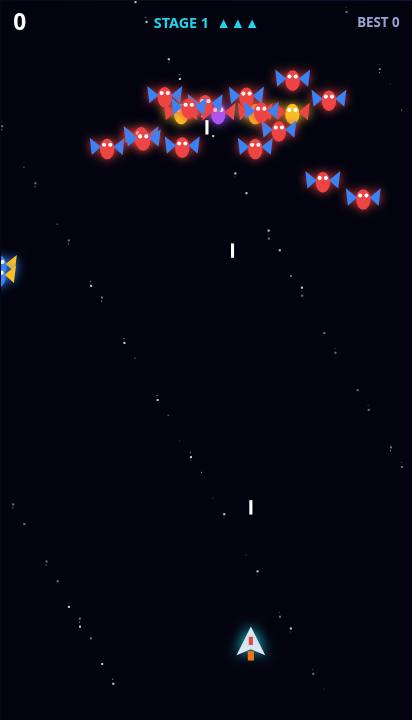
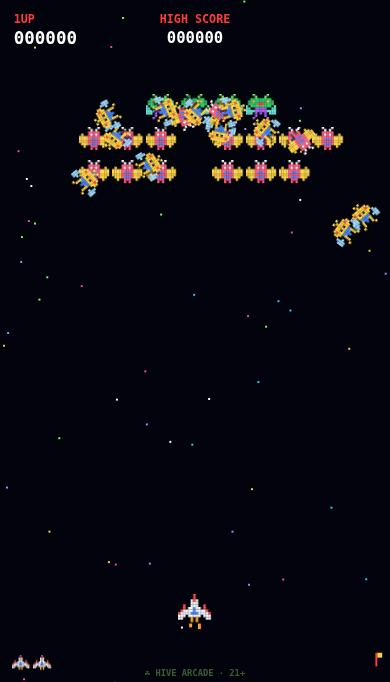
games-lib: Star Swarm art upgrade (original pixel sprites, arcade HUD, pixel explosions); e2e + bug pass PASS

diff --git a/public/games-lib/star-swarm/game.js b/public/games-lib/star-swarm/game.js
@@ -1,4 +1,18 @@
-// Star Swarm - original formation shooter with diving bugs (Hub build)
+// Star Swarm - original formation shooter with diving bugs (Hub build, Galaga-style). Original pixel-art sprites (our own maps,
+// 2-frame wing flaps), arcade multicolour scrolling starfield, pixel explosions, stage badges.
+const PX = { // 13x11 maps: . empty, letters = palette
+  hornet: ['.....a.a.....', '......a......', '...bbbbbbb...', '..bcbbbbbcb..', 'w.bbbdbdbbb.w', 'ww.bbbbbbb.ww', 'www.eeeee.www', 'ww..beeeb..ww', 'w...b.e.b...w', '....b...b....', '...b.....b...'],
+  hornet2: ['.....a.a.....', '......a......', '...bbbbbbb...', '..bcbbbbbcb..', '..bbbdbdbbb..', '.w.bbbbbbb.w.', 'ww..eeeee..ww', 'www.beeeb.www', 'ww..b.e.b..ww', '....b...b....', '...b.....b...'],
+  moth: ['....a...a....', '.....a.a.....', 'ww..bbbbb..ww', 'www.bcbcb.www', 'wwwwbbbbbwwww', '.wwwbdddbwww.', '..wwbbbbbww..', '.wwwbdddbwww.', 'www..bbb..www', 'ww...b.b...ww', '.............'],
+  moth2: ['....a...a....', '.....a.a.....', '....bbbbb....', '.w..bcbcb..w.', 'wwwwbbbbbwwww', 'wwwwbdddbwwww', 'wwwwbbbbbwwww', '.wwwbdddbwww.', '..w..bbb..w..', '.....b.b.....', '.............'],
+  queen: ['...a.....a...', '....a...a....', '..bbbbbbbbb..', '.bbcbbbbbcbb.', 'wbbbbdddbbbbw', 'wwbbbbbbbbbww', 'www.eeeee.www', 'wwwweeeeewwww', 'ww..e.e.e..ww', '....e...e....', '...e.....e...'],
+  queen2: ['...a.....a...', '....a...a....', '..bbbbbbbbb..', '.bbcbbbbbcbb.', '.bbbbdddbbbb.', 'w.bbbbbbbbb.w', 'ww..eeeee..ww', 'wwwweeeeewwww', 'www.e.e.e.www', '....e...e....', '...e.....e...'],
+  ship: ['......a......', '......a......', '.....bab.....', '.....bbb.....', '..c..bbb..c..', '..c.bbdbb.c..', '.cbbbbdbbbbc.', 'cbbbbdddbbbbc', 'bbb.bbbbb.bbb', 'bb...e.e...bb', '.....e.e.....'] };
+const PAL = { hornet: { a: '#ffd23f', b: '#ffcc33', c: '#ff3b3b', d: '#1a1a2e', e: '#3b82f6', w: '#9ad8ff' }, moth: { a: '#ffffff', b: '#ff4f7a', c: '#ffffff', d: '#3b82f6', e: '#ff4f7a', w: '#ffd23f' }, queen: { a: '#7dff6a', b: '#22c55e', c: '#ffd23f', d: '#ff3b3b', e: '#a855f7', w: '#5eead4' }, queenH: { a: '#7dff6a', b: '#a855f7', c: '#ffd23f', d: '#ff3b3b', e: '#22d3ee', w: '#c4b5fd' }, ship: { a: '#ff3b3b', b: '#f1f5f9', c: '#ff3b3b', d: '#3b82f6', e: '#ff9f1c' } };
+const SC = {}; function spr(name, pal, k) { const key = name + pal + k; if (SC[key]) return SC[key]; const m = PX[name], cv = document.createElement('canvas'); cv.width = 13 * k + 2; cv.height = 11 * k + 2; const c = cv.getContext('2d'); const P = PAL[pal];
+  for (let y = 0; y < 11; y++) for (let x = 0; x < 13; x++) { const ch = m[y][x]; if (ch === '.') continue; c.fillStyle = 'rgba(0,0,0,.6)'; c.fillRect(x * k + 2, y * k + 2, k, k); } for (let y = 0; y < 11; y++) for (let x = 0; x < 13; x++) { const ch = m[y][x]; if (ch === '.') continue; c.fillStyle = P[ch]; c.fillRect(x * k, y * k, k, k); c.fillStyle = 'rgba(255,255,255,.18)'; c.fillRect(x * k, y * k, k, 1); }
+  return (SC[key] = cv); }
+const STAR = Array.from({ length: 90 }, (_, i) => ({ x: Math.random() * 400, y: Math.random() * 700, s: 40 + Math.random() * 120, c: ['#ff4f7a', '#ffd23f', '#22d3ee', '#7dff6a', '#ffffff', '#a78bfa'][i % 6], p: Math.random() * 6 }));
 Kit.run({ id: 'gl-star-swarm', title: 'STAR SWARM', help: 'Drag / arrows to move, auto-fire while touching\nSpace to fire - divers are worth double', bg: '#02030f',
   init(g) { g.p = { x: 200, cd: 0, inv: 1 }; g.stage = 0; g.sh = []; g.eb = []; g.lives = 3; nextStage(g); },
   update(g, dt) {
@@ -8,21 +22,26 @@ Kit.run({ id: 'gl-star-swarm', title: 'STAR SWARM', help: 'Drag / arrows to move
     g.ft += dt; const sway = Math.sin(g.ft * 0.9) * 30, breathe = 1 + Math.sin(g.ft * 1.6) * 0.05;
     g.entry = Math.max(0, g.entry - dt);
     for (const e of g.en) { if (e.dead) continue; const hx = 200 + (e.gx - 4.5) * 36 * breathe + sway, hy = 110 + e.gy * 34;
-      if (e.st === 'in') { e.k += dt * 0.8; const t = Math.min(1, e.k - e.delay); if (t > 0) { const sx = e.side ? g.W + 40 : -40; e.x = Kit.lerp(sx, hx, t) + Math.sin(t * Math.PI) * 120 * (e.side ? -1 : 1); e.y = Kit.lerp(300, hy, t) - Math.sin(t * Math.PI) * 140; if (t >= 1) e.st = 'f'; } else { e.x = -100; e.y = -100; } }
+      if (e.st === 'in') { e.k += dt * 0.8; const t = Math.min(1, e.k - e.delay); if (t > 0) { const sx = e.side ? g.W + 40 : -40; e.x = Kit.lerp(sx, hx, t) + Math.sin(t * Math.PI) * 120 * (e.side ? -1 : 1); e.y = Kit.lerp(300, hy, t) - Math.sin(t * Math.PI) * 140; e.vx = e.x - (e.px ?? e.x); e.vy = e.y - (e.py ?? e.y); e.px = e.x; e.py = e.y; if (t >= 1) e.st = 'f'; } else { e.x = -100; e.y = -100; } }
       else if (e.st === 'f') { e.x = hx; e.y = hy; if (!g.entry && g.rnd() < dt * (0.05 + g.stage * 0.012)) { e.st = 'd'; e.dt = 0; e.sx = e.x; g.sfx('whoosh'); } }
       else if (e.st === 'd') { e.dt += dt; e.x = e.sx + Math.sin(e.dt * 2.5) * 90 + (p.x - e.sx) * Math.min(1, e.dt * 0.5); e.y += (220 + g.stage * 15) * dt; if (g.rnd() < dt * 1.2 && e.y < 500) g.eb.push({ x: e.x, y: e.y, vx: (p.x - e.x) * 0.4, vy: 260 }); if (e.y > g.H + 20) { e.st = 'in'; e.k = e.delay = 0; e.side = g.rnd() < 0.5; e.y = -30; e.st = 'f'; } }
-      for (const s of g.sh) if (!s.dead && Math.abs(s.x - e.x) < 16 && Math.abs(s.y - e.y) < 14) { s.dead = true; if (--e.hp <= 0) { e.dead = true; const v = e.v * (e.st === 'd' ? 2 : 1); g.add(v, 'k'); g.float(e.x, e.y, v, e.st === 'd' ? '#fbbf24' : '#fff', 14); g.burst(e.x, e.y, [e.c, '#fff'], 18, 200); g.sfx('pop'); g.shake(2); } else { g.sfx('hit'); e.c = '#a855f7'; } }
+      for (const s of g.sh) if (!s.dead && Math.abs(s.x - e.x) < 16 && Math.abs(s.y - e.y) < 14) { s.dead = true; if (--e.hp <= 0) { e.dead = true; const v = e.v * (e.st === 'd' ? 2 : 1); g.add(v, 'k'); g.float(e.x, e.y, v, e.st === 'd' ? '#fbbf24' : '#fff', 14); g.burst(e.x, e.y, [e.c, '#fff'], 10, 160); (g.xp = g.xp || []).push({ x: e.x, y: e.y, l: 0.45, r: g.R(0, 1), c: e.c }); g.sfx('pop'); g.shake(2); } else { g.sfx('hit'); e.c = '#a855f7'; } }
       if (!e.dead && p.inv <= 0 && Math.abs(e.x - p.x) < 20 && Math.abs(e.y - 625) < 18) { e.dead = true; die(g); if (g.state !== 'play') return; } }
     for (const b of g.eb) { b.x += b.vx * dt; b.y += b.vy * dt; if (p.inv <= 0 && Math.abs(b.x - p.x) < 12 && Math.abs(b.y - 625) < 12) { b.y = 9e3; die(g); if (g.state !== 'play') return; } } g.eb = g.eb.filter(b => b.y < g.H);
     if (g.en.every(e => e.dead)) { g.add(300 * g.stage, 'c'); g.float(200, 330, 'STAGE CLEAR +' + 300 * g.stage, '#34d399', 22); g.sfx('line'); nextStage(g); }
-    g.hud = 'STAGE ' + g.stage + '  ' + '\u25B2'.repeat(g.lives);
+    g.hud = '';
   },
-  draw(g, c) {
-    Kit.stars(c, g.W, g.H, g.t, 60, 90);
-    for (const e of g.en) { if (e.dead || e.y < -50) continue; c.save(); c.translate(e.x, e.y); if (e.st === 'd') c.rotate(Math.sin(e.dt * 2.5) * 0.5 + Math.PI); const f = Math.sin(g.t * 12) * 3; Kit.glow(c, e.c, 10); c.fillStyle = e.c; c.beginPath(); c.ellipse(0, 0, 7, 10, 0, 0, 7); c.fill(); c.fillStyle = e.c2; c.beginPath(); c.moveTo(-6, -2); c.lineTo(-17, -8 + f); c.lineTo(-15, 6); c.closePath(); c.moveTo(6, -2); c.lineTo(17, -8 + f); c.lineTo(15, 6); c.closePath(); c.fill(); Kit.noGlow(c); Kit.circ(c, -3, -4, 2, '#fff'); Kit.circ(c, 3, -4, 2, '#fff'); c.restore(); }
-    c.fillStyle = '#fff'; for (const s of g.sh) c.fillRect(s.x - 1.5, s.y - 9, 3, 14); c.fillStyle = '#ef4444'; for (const b of g.eb) { c.beginPath(); c.arc(b.x, b.y, 3.5, 0, 7); c.fill(); }
-    const p = g.p; if (!(p.inv > 0 && Math.sin(g.t * 25) > 0)) { c.save(); c.translate(p.x, 625); Kit.glow(c, '#22d3ee', 14); c.fillStyle = '#e2e8f0'; c.beginPath(); c.moveTo(0, -16); c.lineTo(14, 12); c.lineTo(0, 6); c.lineTo(-14, 12); c.closePath(); c.fill(); c.fillStyle = '#ef4444'; c.fillRect(-2, -6, 4, 8); Kit.noGlow(c); c.fillStyle = '#f97316'; c.fillRect(-3, 8, 6, 4 + Math.random() * 6); c.restore(); }
-  } });
+  draw(g, c) { c.fillStyle = '#02030c'; c.fillRect(0, 0, g.W, g.H); for (const st of STAR) { const y = (st.y + g.t * st.s) % g.H; if (Math.sin(g.t * 4 + st.p) > -0.3) { c.fillStyle = st.c; c.fillRect(st.x, y, 2, 2); } }
+    c.fillStyle = 'rgba(157,255,122,.35)'; c.font = 'bold 9px monospace'; c.textAlign = 'center'; c.fillText('\u2618 HIVE ARCADE \u00b7 21+', 200, g.H - 8);
+    const fl = Math.floor(g.t * 4) % 2;
+    for (const e of g.en) { if (e.dead || e.y < -50) continue; c.save(); c.translate(e.x, e.y); if (e.st === 'd') c.rotate(Math.sin(e.dt * 2.5) * 0.5 + Math.PI); else if (e.st === 'in') c.rotate(Math.atan2(e.vy || 1, e.vx || 0) - Math.PI / 2 + Math.PI); const kind = e.v >= 160 ? 'queen' : e.v >= 80 ? 'moth' : 'hornet'; const im = spr(kind + (fl ? '2' : ''), kind === 'queen' && e.hp < 2 ? 'queenH' : kind, 2.4); c.drawImage(im, -im.width / 2, -im.height / 2); c.restore(); }
+    for (const s of g.sh) { c.fillStyle = '#ffd23f'; c.fillRect(s.x - 1.5, s.y - 10, 3, 6); c.fillStyle = '#ff3b3b'; c.fillRect(s.x - 1.5, s.y - 4, 3, 6); c.fillStyle = '#9ad8ff'; c.fillRect(s.x - 0.5, s.y - 12, 1, 3); }
+    for (const b of g.eb) { c.fillStyle = Math.sin(g.t * 30) > 0 ? '#ff3b3b' : '#ffffff'; c.fillRect(b.x - 1.5, b.y - 5, 3, 10); }
+    for (const x of g.xp || []) { const f = 1 - x.l / 0.45; c.save(); c.translate(x.x, x.y); for (let i = 0; i < 12; i++) { const a = i * 0.524 + x.r, d = 4 + f * 26; c.fillStyle = i % 3 ? x.c : '#fff'; const sz = Math.max(1, 4 - f * 3); c.fillRect(Math.cos(a) * d - sz / 2, Math.sin(a) * d - sz / 2, sz, sz); } if (f < 0.4) { c.fillStyle = '#fff'; c.fillRect(-4, -4, 8, 8); } c.restore(); x.l -= 1 / 60; } g.xp = (g.xp || []).filter(x => x.l > 0);
+    const p = g.p; if (!(p.inv > 0 && Math.sin(g.t * 25) > 0)) { const im = spr('ship', 'ship', 2.6); c.drawImage(im, p.x - im.width / 2, 625 - im.height / 2); c.fillStyle = Math.random() < 0.5 ? '#ff9f1c' : '#ffd23f'; c.fillRect(p.x - 6, 640, 3, 3 + Math.random() * 5); c.fillRect(p.x + 3, 640, 3, 3 + Math.random() * 5); }
+  },
+  hudDraw(g, c) { c.font = 'bold 12px monospace'; c.textAlign = 'left'; c.fillStyle = '#ff3b3b'; c.fillText('1UP', 14, 20); c.fillStyle = '#fff'; c.font = 'bold 18px monospace'; c.fillText(String(Math.floor(g.score)).padStart(6, '0'), 14, 40); c.textAlign = 'center'; c.font = 'bold 12px monospace'; c.fillStyle = '#ff3b3b'; c.fillText('HIGH SCORE', 200, 20); c.fillStyle = '#fff'; c.font = 'bold 16px monospace'; c.fillText(String(Math.floor(Math.max(g.best, g.score))).padStart(6, '0'), 200, 40);
+    const sh = spr('ship', 'ship', 1.4); for (let i = 0; i < g.lives - 1; i++) c.drawImage(sh, 12 + i * 22, g.H - 28); for (let i = 0; i < g.stage; i++) { const x = g.W - 14 - i * 9, big = (i + 1) % 5 === 0; c.fillStyle = big ? '#ffd23f' : '#ff3b3b'; c.fillRect(x - 1, g.H - 30, 2, big ? 18 : 14); c.fillStyle = big ? '#ff3b3b' : '#ffd23f'; c.fillRect(x + 1, g.H - 30, 5, 5); } } });
 function nextStage(g) { g.stage++; g.mark('w', g.stage); g.en = []; g.ft = 0; g.entry = 3; const C = [['#fbbf24', '#ef4444', 160, 2], ['#ef4444', '#3b82f6', 80, 1], ['#ef4444', '#3b82f6', 80, 1], ['#3b82f6', '#fbbf24', 50, 1], ['#3b82f6', '#fbbf24', 50, 1]];
   let n = 0; for (let r = 0; r < 5; r++) for (let i = 0; i < 10; i++) { if (r === 0 && (i < 3 || i > 6)) continue; if (r > 0 && r < 3 && (i === 0 || i === 9)) continue; const k = C[r]; g.en.push({ gx: i, gy: r, c: k[0], c2: k[1], v: k[2], hp: k[3], st: 'in', k: 0, delay: (n++ % 8) * 0.12 + Math.floor(n / 8) * 0.5, side: (n % 2) === 0, x: -100, y: -100 }); } }
 function die(g) { const p = g.p; g.lives--; g.burst(p.x, 625, ['#22d3ee', '#fff', '#f97316'], 40, 260); g.sfx('boom'); g.shake(12); g.flash('#ef4444'); p.inv = 2.5; if (g.lives <= 0) g.end('Fighter destroyed'); }

diff --git a/docs/GAMES-LIB.md b/docs/GAMES-LIB.md
@@ -533,3 +533,8 @@ For each reference we searched GitHub (topics html5-game / javascript-game / pha
 - Art: Kenney Space Shooter Remastered (CC0) meteors (4 big, 2 medium, 2 small variants), ship, red UFO, laser bolts, thruster flame and shield bubble; a code-painted nebula with a "PLANET KUSH 21+" ringed planet, parallax star layer.
 - Feel: rock hit flash, spinning rock shards, a shockwave ring per break, a flickering thruster flame, a shield bubble during invulnerability, ship-icon lives and a glowing score HUD.
 - Tests: e2e PASS (60 fps). Bug pass PASS (50 fps throttled). Folder size 104 KB. Rating: visual 7.5/10, feel 7/10.
+
+## Star Swarm (Galaga) - UPGRADED (2026-10-10 06:41 ET)
+- Source hunt (GitHub "galaga javascript", Gitee "小蜜蜂 H5", js13k, itch.io): the faithful clones ship ripped Namco sprites (rejected); MIT remakes are vector or flat circles. Our formation/dive/entry rules were already right. Decision: art pass with our own pixel sprites.
+- Art: original 13x11 pixel-art designs (hornet, moth and a two-hit queen that changes colour when damaged), 2-frame wing flaps, drop-shadowed pixels; our own fighter; enemies face their flight path on entry and spin on dives; twinkling multicolour scrolling starfield; pixel ring explosions; arcade HUD (1UP, HIGH SCORE, reserve ships, stage flags); "HIVE ARCADE 21+" footer.
+- Tests: e2e PASS (60 fps). Bug pass PASS (60 fps throttled). Rating: visual 7.5/10, feel 7/10.

diff --git a/HANDOFF-AGENT.md b/HANDOFF-AGENT.md
@@ -47,6 +47,7 @@ Phases 1-9 DONE (incl. 8b i18n: 21 languages, body text of player pages, RTL; fi
 - Slab Stack (Stack-style) DONE (06:11)
 - Neon Flipper (Pinball) DONE (06:32)
 - Light Cycle (Tron) DONE (06:36)
+- Star Swarm (Galaga) UPGRADED (06:41)
 - Knife Toss (Knife Hit) UPGRADED (06:08)
 - Bubble Pop UPGRADED (Bubble Shooter art pass).
 - Rock Buster (Asteroids) UPGRADED (06:39); Kenney CC0 art

diff --git a/public/games-lib/star-swarm/CREDITS.md b/public/games-lib/star-swarm/CREDITS.md
@@ -1,3 +1,2 @@
-# Star Swarm
-
-Original game built for The Gaming Hub (Trap Tech Solutions). Code: MIT (see ../LICENSE-HUB.md). Art: vector shapes drawn in code. Sound: synthesized at runtime with WebAudio. No third-party assets.
+# Star Swarm - credits
+- Original Hub code and code-drawn art (MIT). No third-party art.
